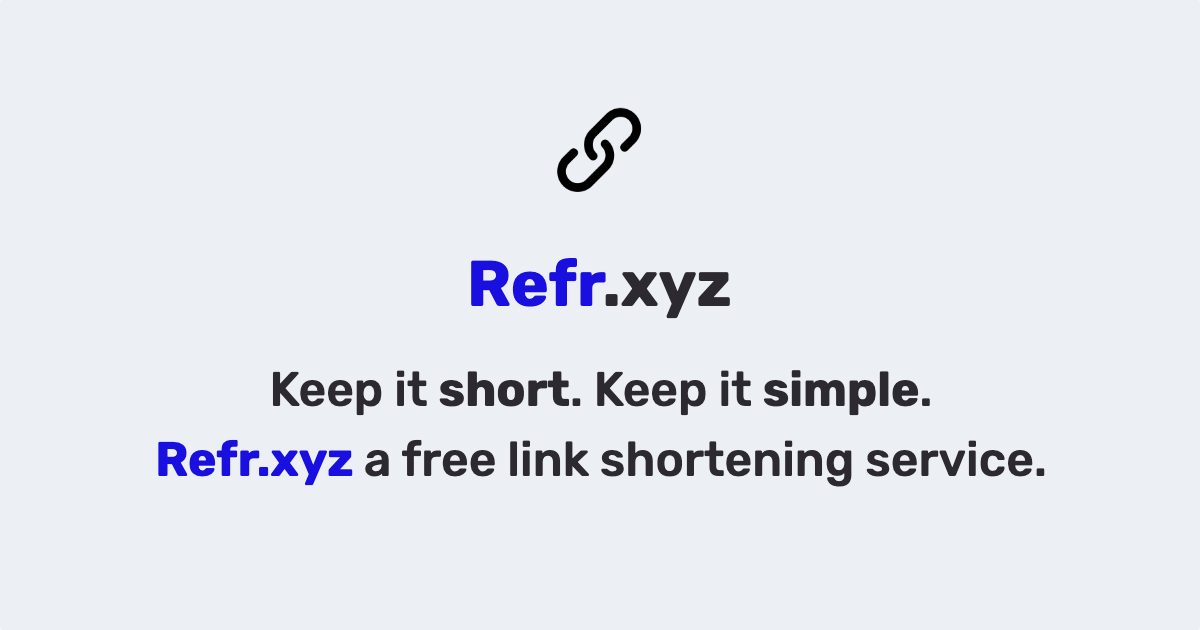
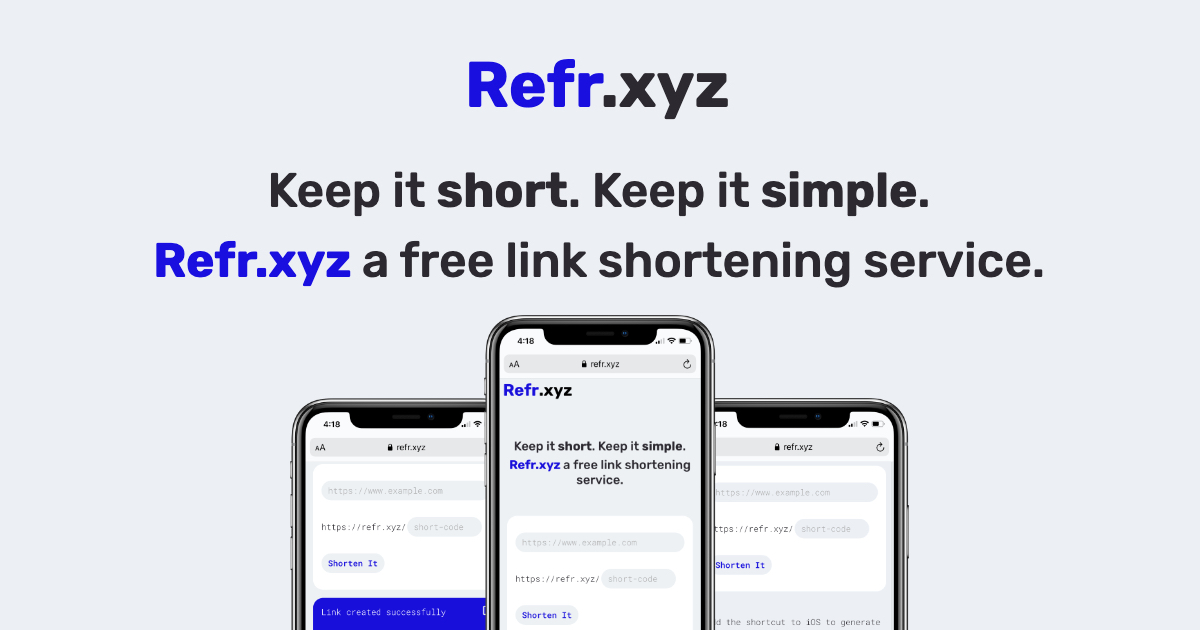
Add promo image to readme, update opengraph image

Changed region(s): [[0.1233, 0.3619, 0.8633, 1.0], [0.2158, 0.0905, 0.7708, 0.3317], [0.4625, 0.9048, 0.4933, 0.9349]]

diff --git a/README.md b/README.md
@@ -1,5 +1,7 @@
 # Refr - link shortening serivce
 
+![Refr Promo Image](/public/img/opengraph-twitter-card.jpg 'Refr Promo Image')
+
 Built with NextJS and hosted on Vercel. A modern and simple link shortener, with support for custom links (shortcodes) and randomly generated urls.
 
 A database MongoDB URI and website URL are required. Place both in a .env file and use the following commands to build and run the application.
